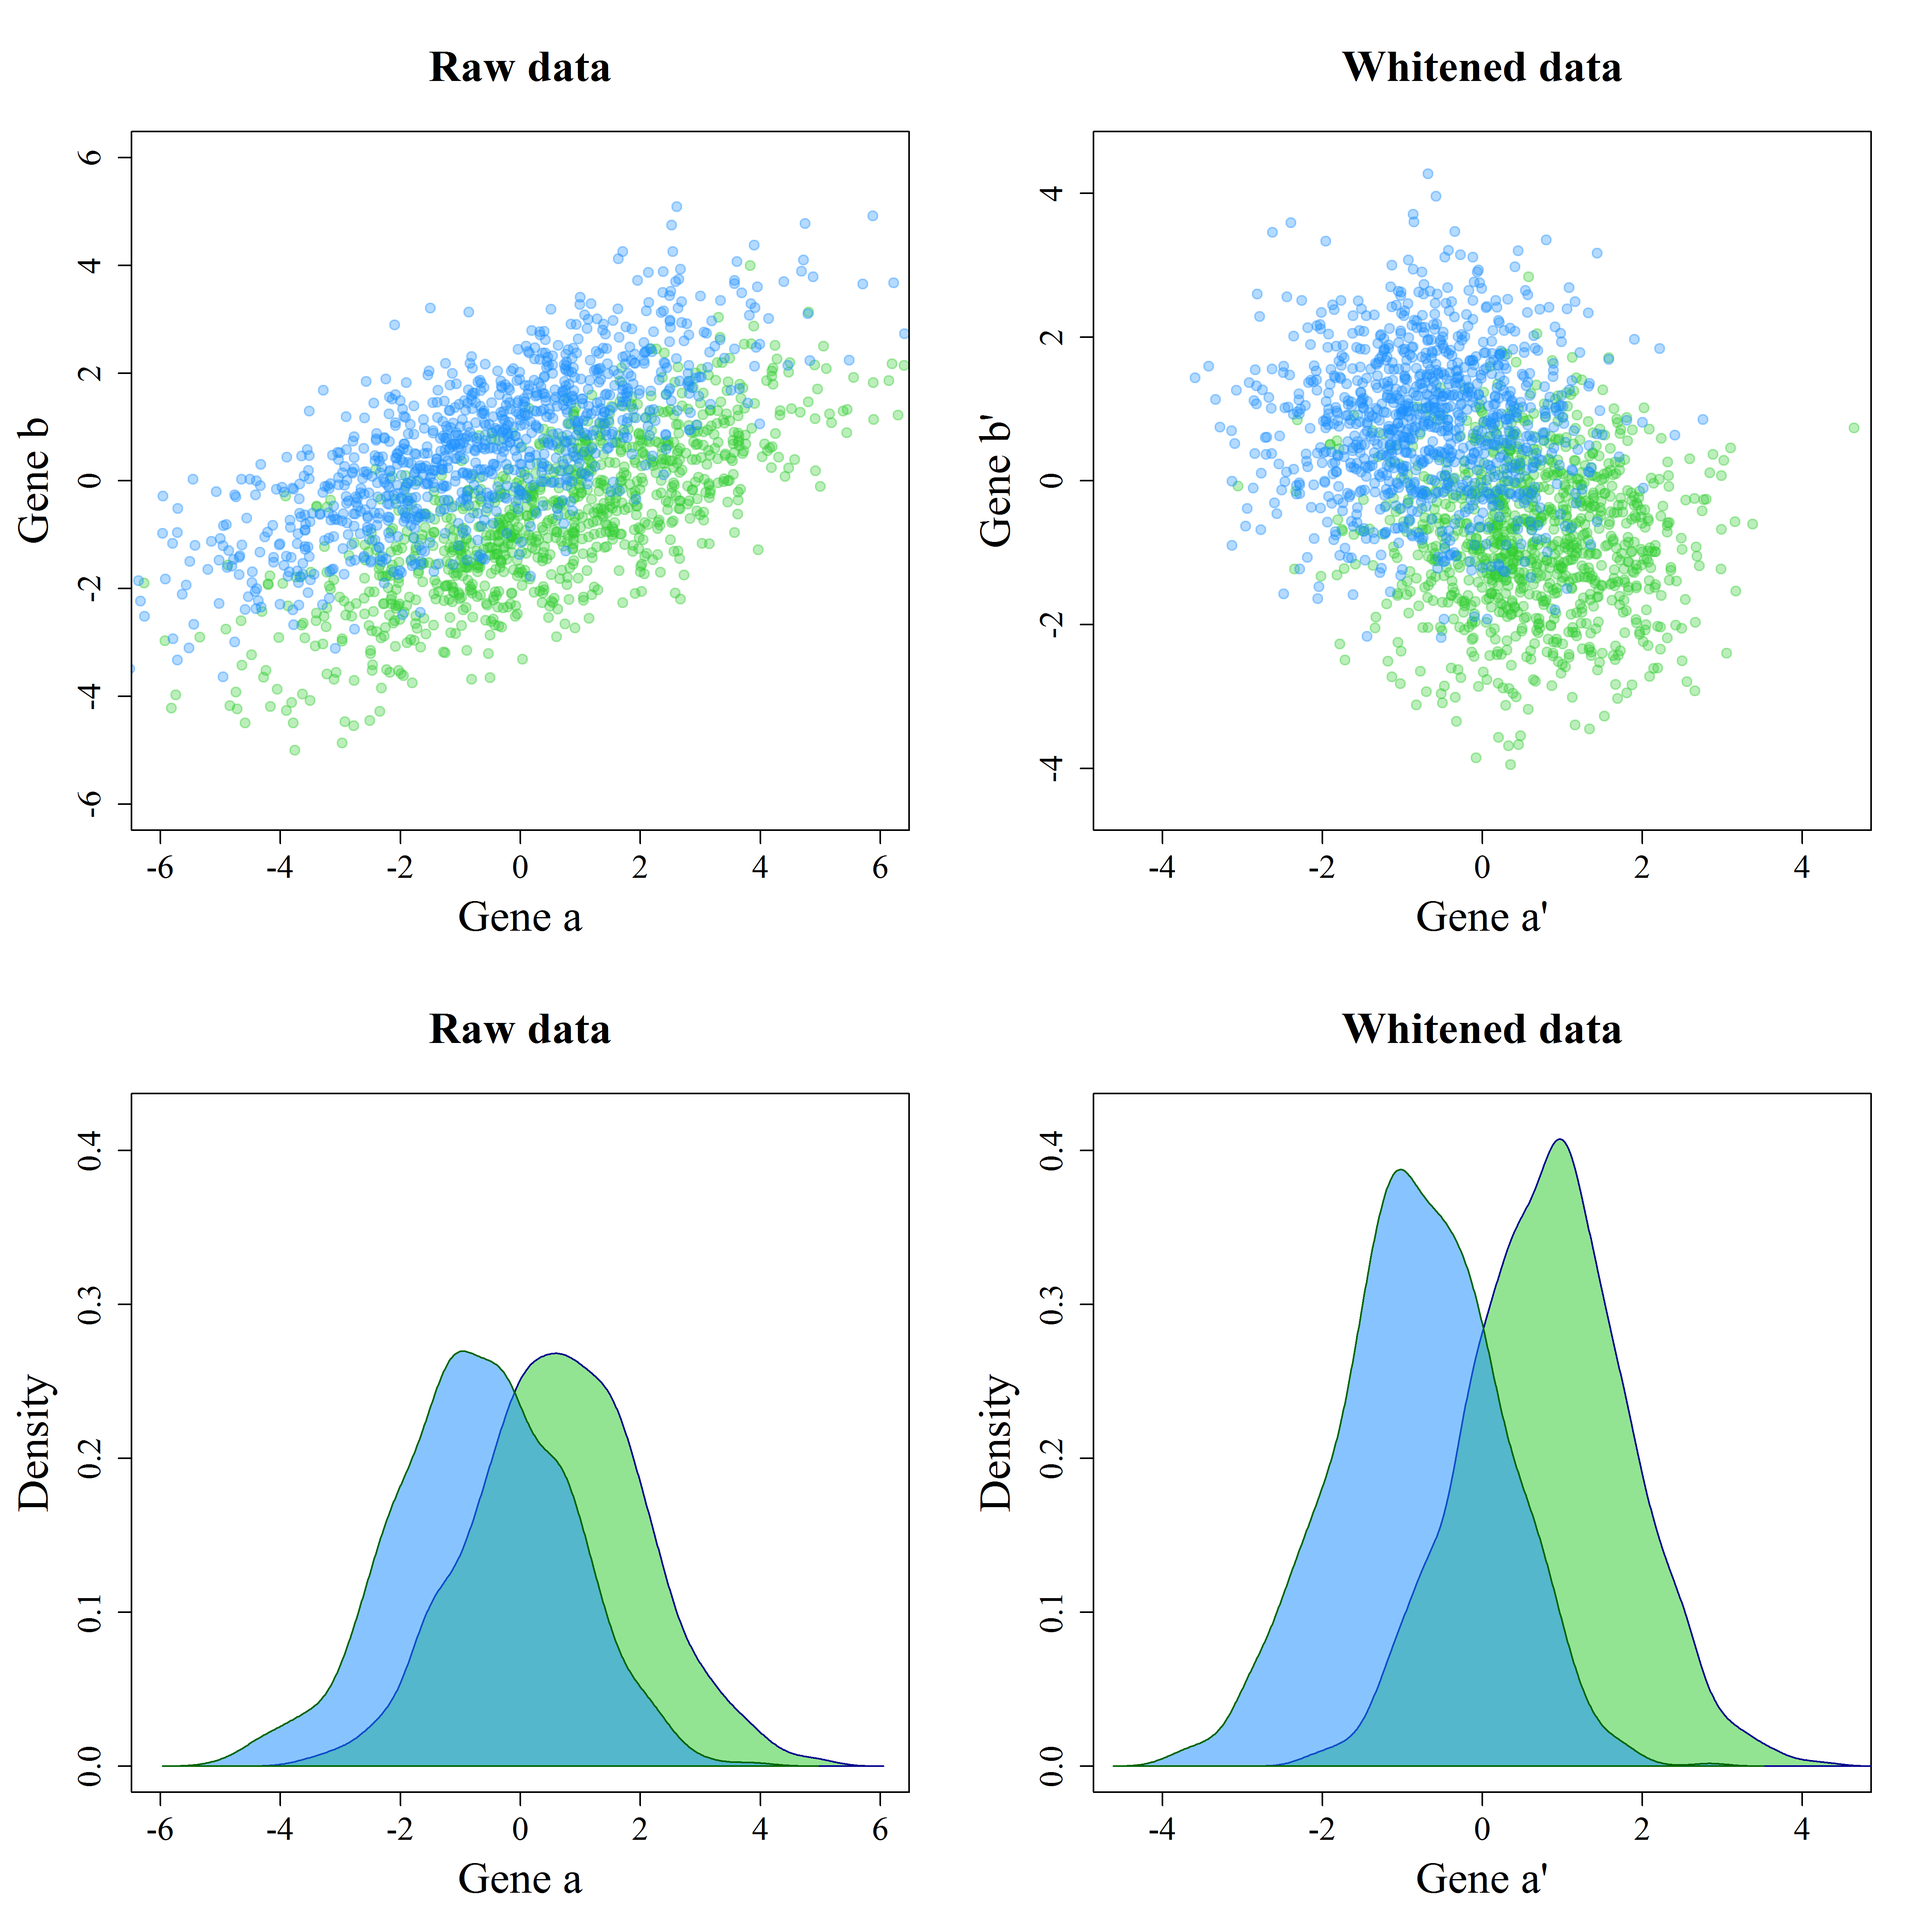
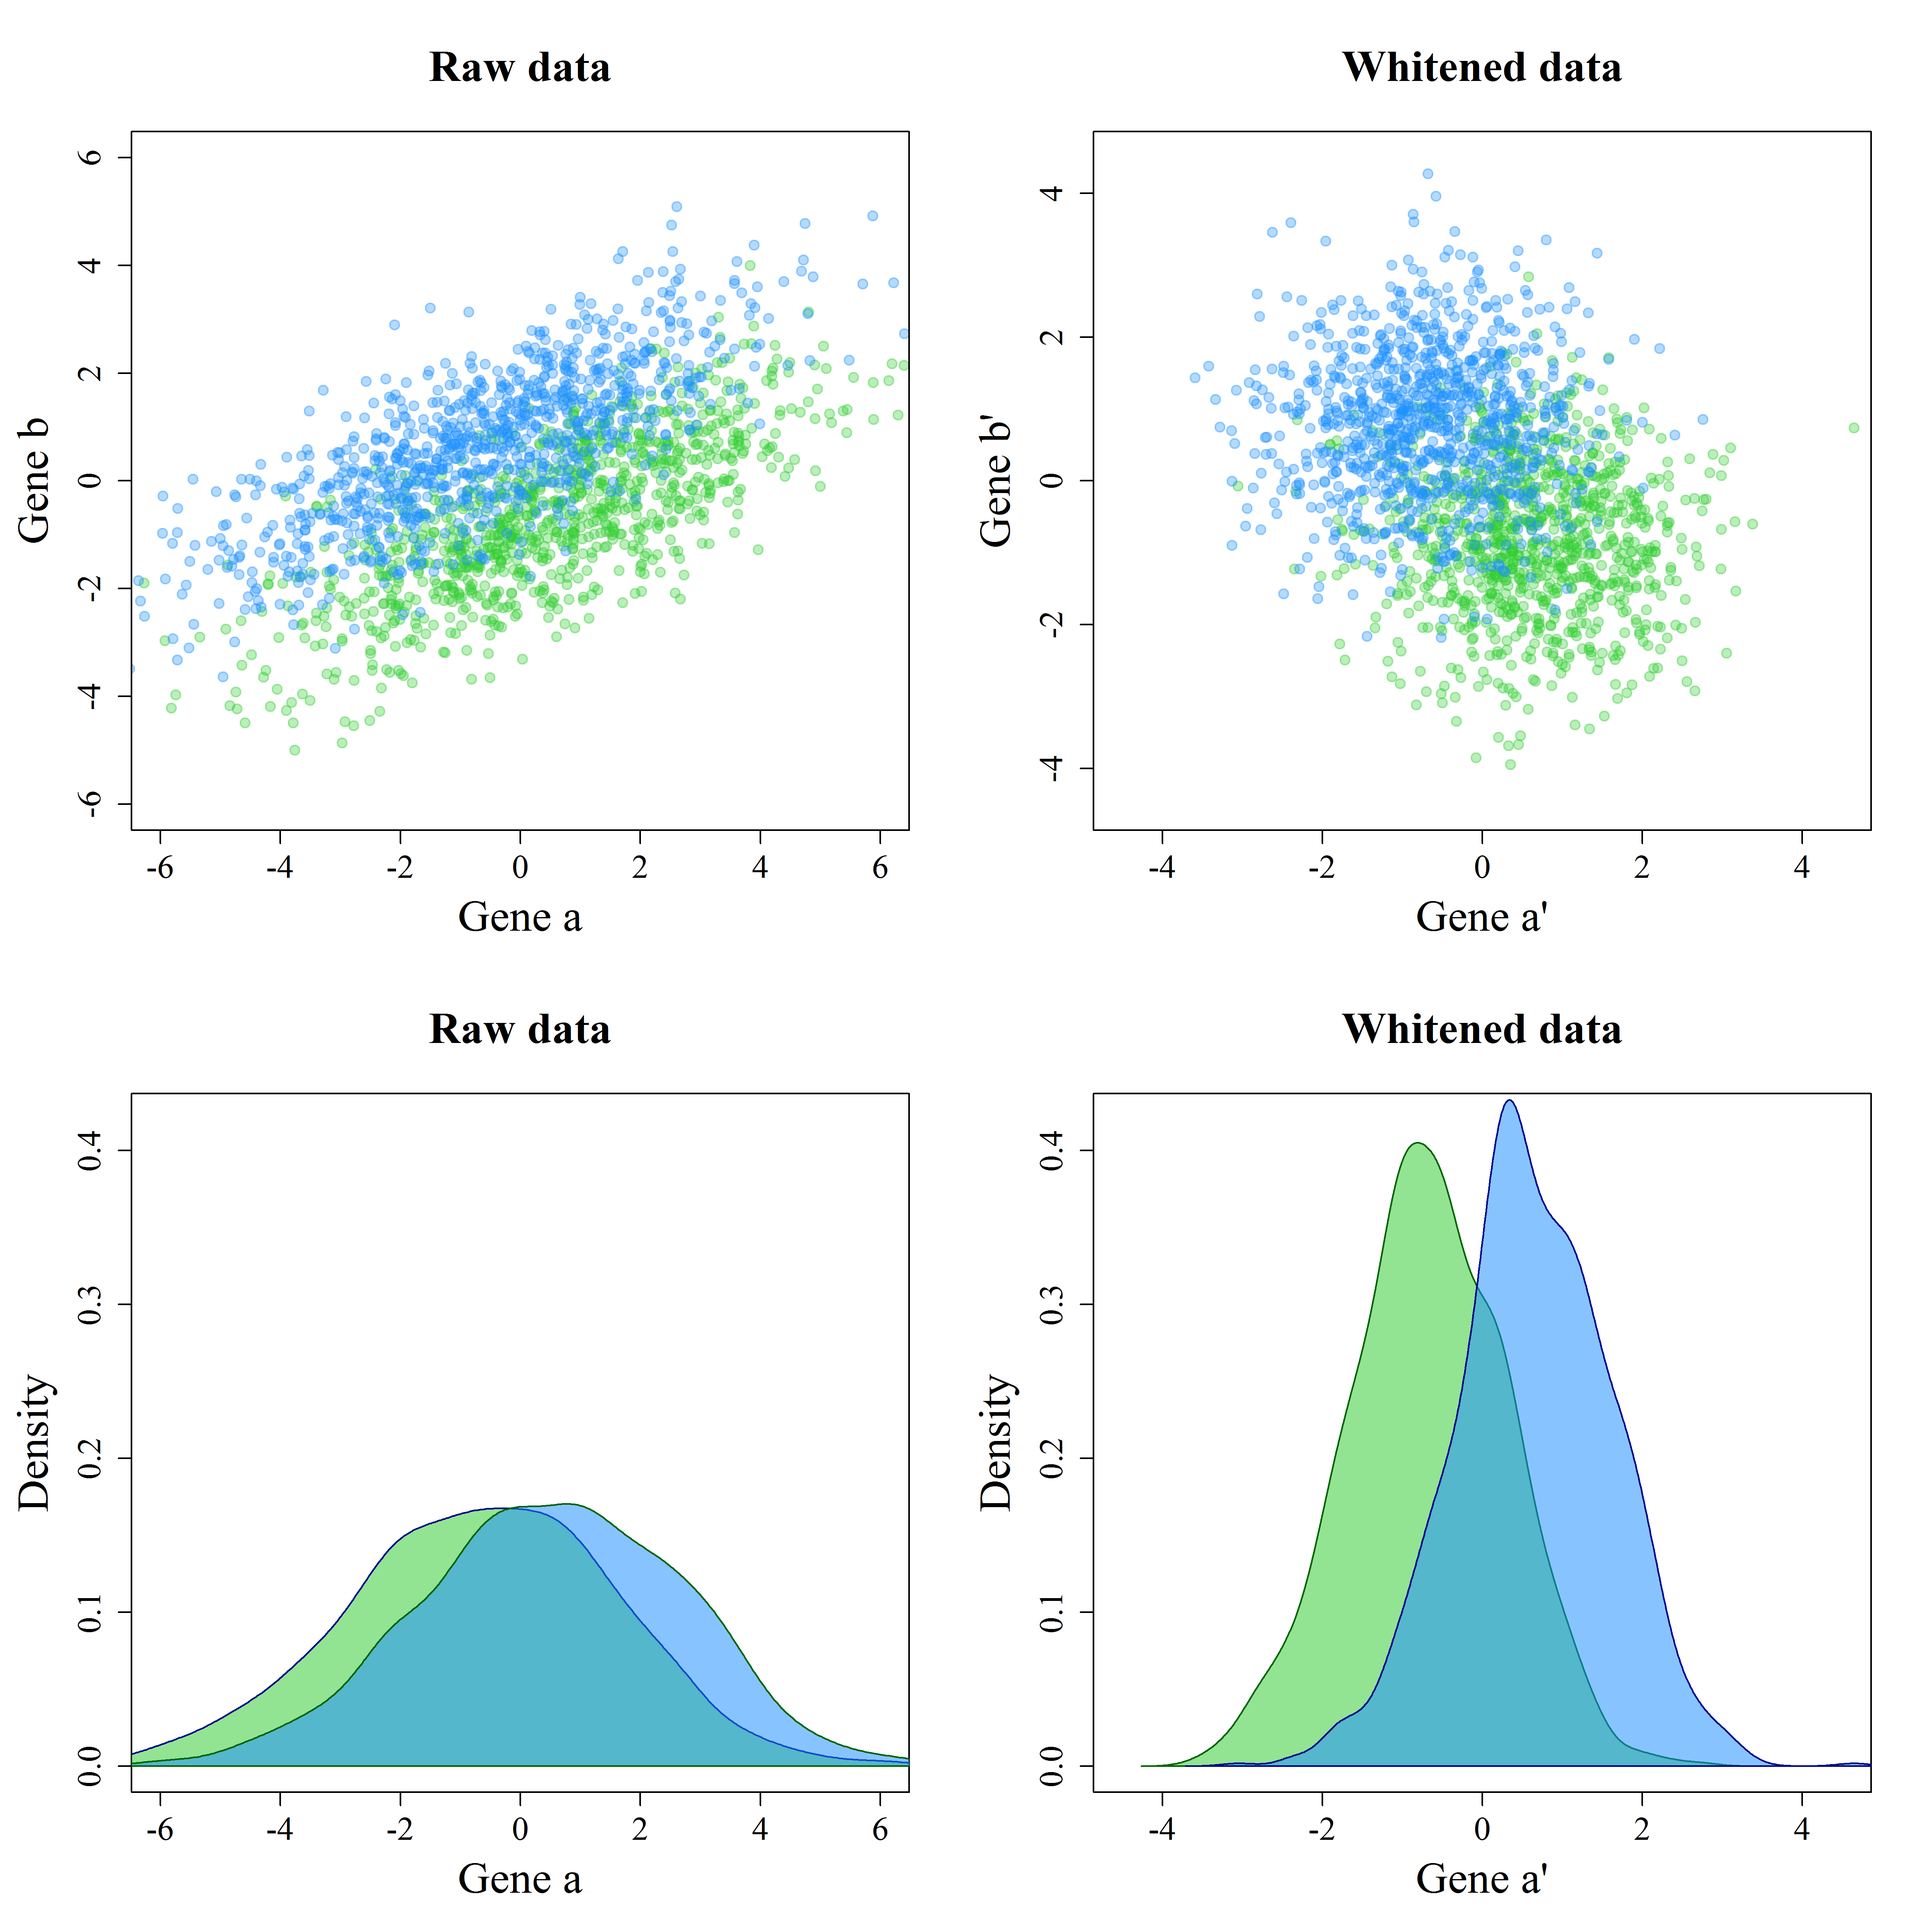
Correct last density plots in whitening

Changed region(s): [[0.5938, 0.5625, 0.9375, 0.9375], [0.0625, 0.6875, 0.4688, 0.9375]]

diff --git a/posts/whitening.html b/posts/whitening.html
@@ -24,6 +24,11 @@
 <link href="../img/favicon.png" rel="shortcut icon" type="image/png">
 <link href="../img/favicon.png" rel="apple-touch-icon" />
 
+<script type="application/json" class="js-hypothesis-config">
+  {
+    "showHighlights": false
+  }
+</script>
 <script src="https://hypothes.is/embed.js" async></script>
 
 <style type="text/css">code{white-space: pre;}</style>
@@ -292,15 +297,15 @@ with(dfwhite, plot(X1, X2, xlab = &quot;Gene a&#39;&quot;, ylab = &quot;Gene b&#
 # plot marginal gene A Raw Data
 plot(NA, ylim=c(0,0.42), xlim=c(-6,6), xlab = &quot;Gene a&quot;, ylab = &quot;Density&quot;, main = &quot;Raw data&quot;,
      cex.lab=2, cex.main=2, cex.axis=1.5)
-polygon(density(df$X2[1001:2000]), col = &quot;#32CD3288&quot;, border = &quot;#00008B&quot;)
-polygon(density(df$X2[1:1000]), col = &quot;#1E90FF88&quot;, border = &quot;#006400&quot;)
+polygon(density(df$X1[1001:2000]), col = &quot;#32CD3288&quot;, border = &quot;#00008B&quot;)
+polygon(density(df$X1[1:1000]), col = &quot;#1E90FF88&quot;, border = &quot;#006400&quot;)
 
 
 # plot marginal gene A Whitened Data
 plot(NA, ylim=c(0,0.42), xlim=c(-4.5,4.5), xlab = &quot;Gene a&#39;&quot;, ylab = &quot;Density&quot;, 
      main = &quot;Whitened data&quot;, cex.lab=2, cex.main=2, cex.axis=1.5)
-polygon(density(dfwhite$X2[1001:2000]), col = &quot;#32CD3288&quot;, border = &quot;#00008B&quot;)
-polygon(density(dfwhite$X2[1:1000]), col = &quot;#1E90FF88&quot;, border = &quot;#006400&quot;)</code></pre>
+polygon(density(dfwhite$X1[1001:2000]), col = &quot;#32CD3288&quot;, border = &quot;#006400&quot;)
+polygon(density(dfwhite$X1[1:1000]), col = &quot;#1E90FF88&quot;, border = &quot;#00008B&quot;)</code></pre>
 <p><img src="whitening_files/figure-html/whitening2class-1.png" style="display: block; margin: auto;" /></p>
 <p>As can be seen from the plots, the whitened data shows a stronger differentiation between the classes in univariate space: the overlapping area in the marginal distribution is relatively low when compared to that of the raw data. <strong>Taking into account the correlation it has, Gene a thus has more information about the classes than we would assume based on its differential expression or its <em>t</em>-score</strong>.</p>
 </div>

diff --git a/posts/whitening.md b/posts/whitening.md
@@ -197,15 +197,15 @@ with(dfwhite, plot(X1, X2, xlab = "Gene a'", ylab = "Gene b'", xlim=c(-4.5,4.5),
 # plot marginal gene A Raw Data
 plot(NA, ylim=c(0,0.42), xlim=c(-6,6), xlab = "Gene a", ylab = "Density", main = "Raw data",
      cex.lab=2, cex.main=2, cex.axis=1.5)
-polygon(density(df$X2[1001:2000]), col = "#32CD3288", border = "#00008B")
-polygon(density(df$X2[1:1000]), col = "#1E90FF88", border = "#006400")
+polygon(density(df$X1[1001:2000]), col = "#32CD3288", border = "#00008B")
+polygon(density(df$X1[1:1000]), col = "#1E90FF88", border = "#006400")
 
 
 # plot marginal gene A Whitened Data
 plot(NA, ylim=c(0,0.42), xlim=c(-4.5,4.5), xlab = "Gene a'", ylab = "Density", 
      main = "Whitened data", cex.lab=2, cex.main=2, cex.axis=1.5)
-polygon(density(dfwhite$X2[1001:2000]), col = "#32CD3288", border = "#00008B")
-polygon(density(dfwhite$X2[1:1000]), col = "#1E90FF88", border = "#006400")
+polygon(density(dfwhite$X1[1001:2000]), col = "#32CD3288", border = "#006400")
+polygon(density(dfwhite$X1[1:1000]), col = "#1E90FF88", border = "#00008B")
 ```
 
 <img src="whitening_files/figure-html/whitening2class-1.png" style="display: block; margin: auto;" />
